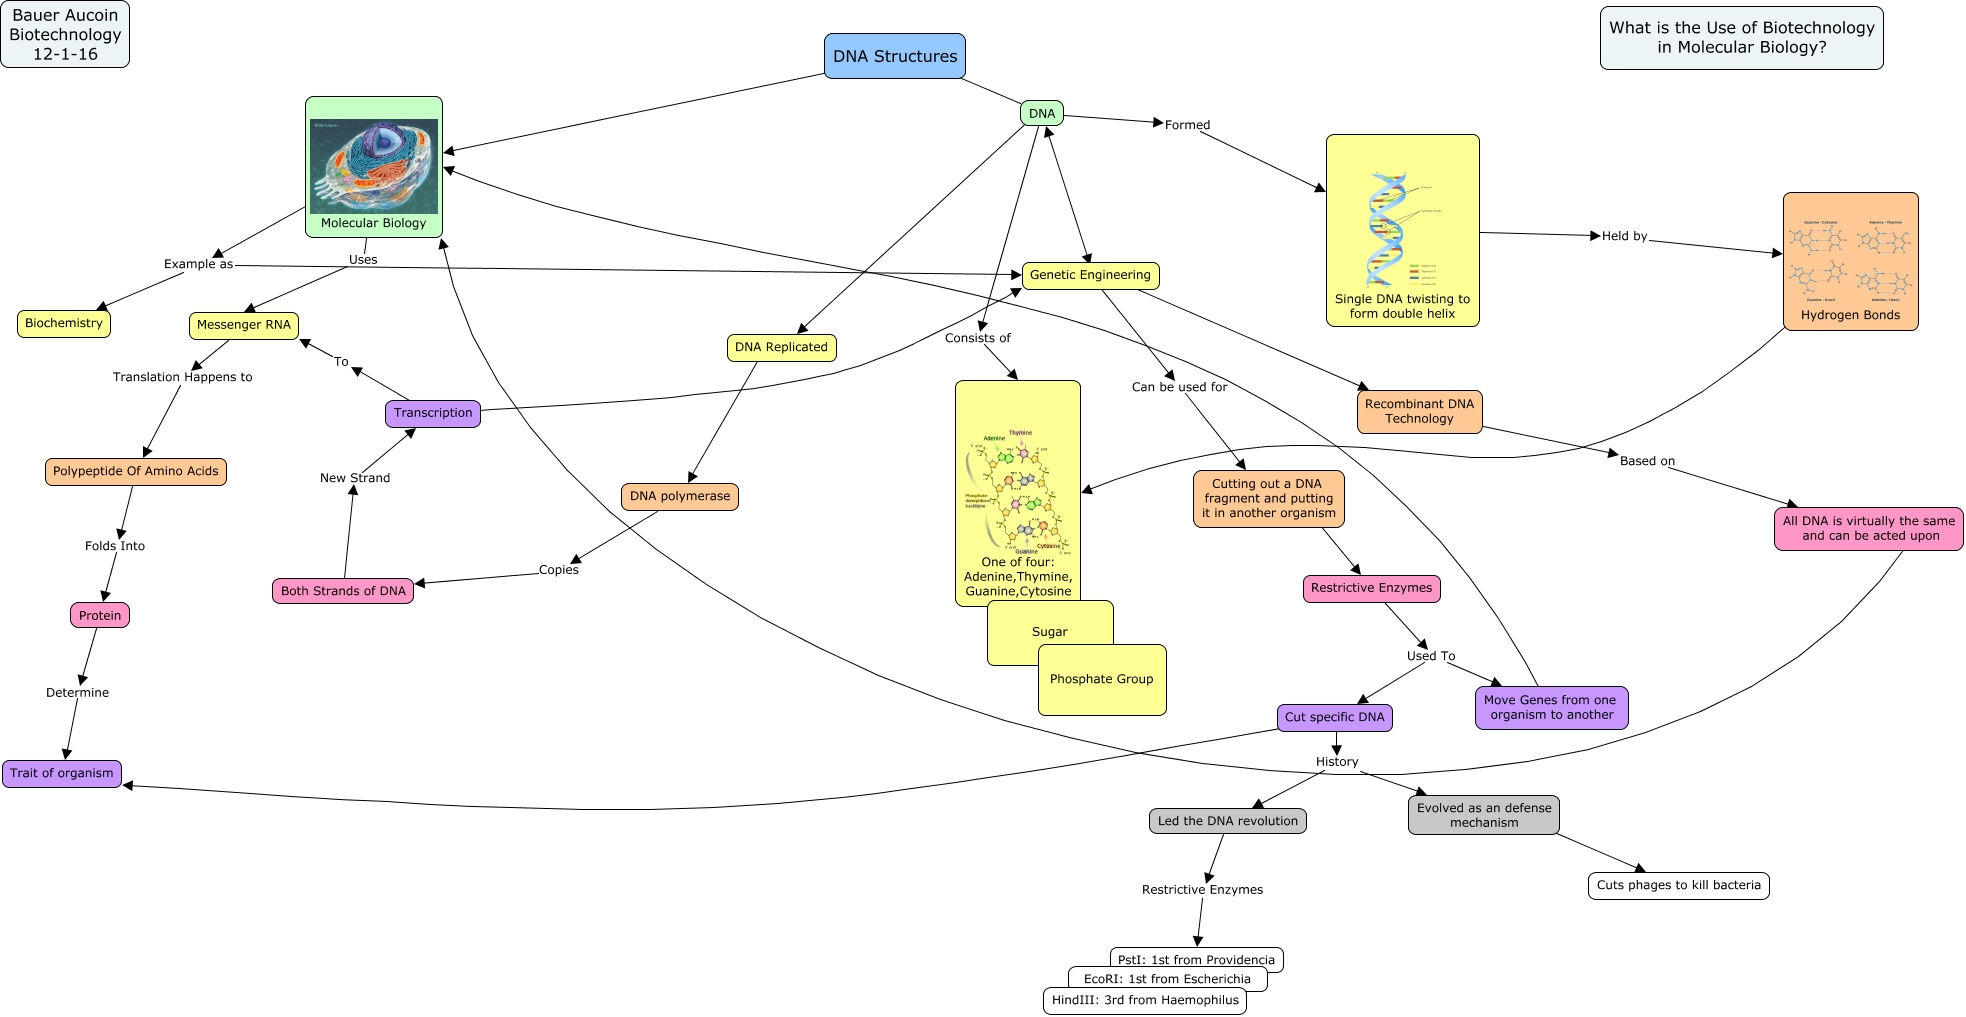
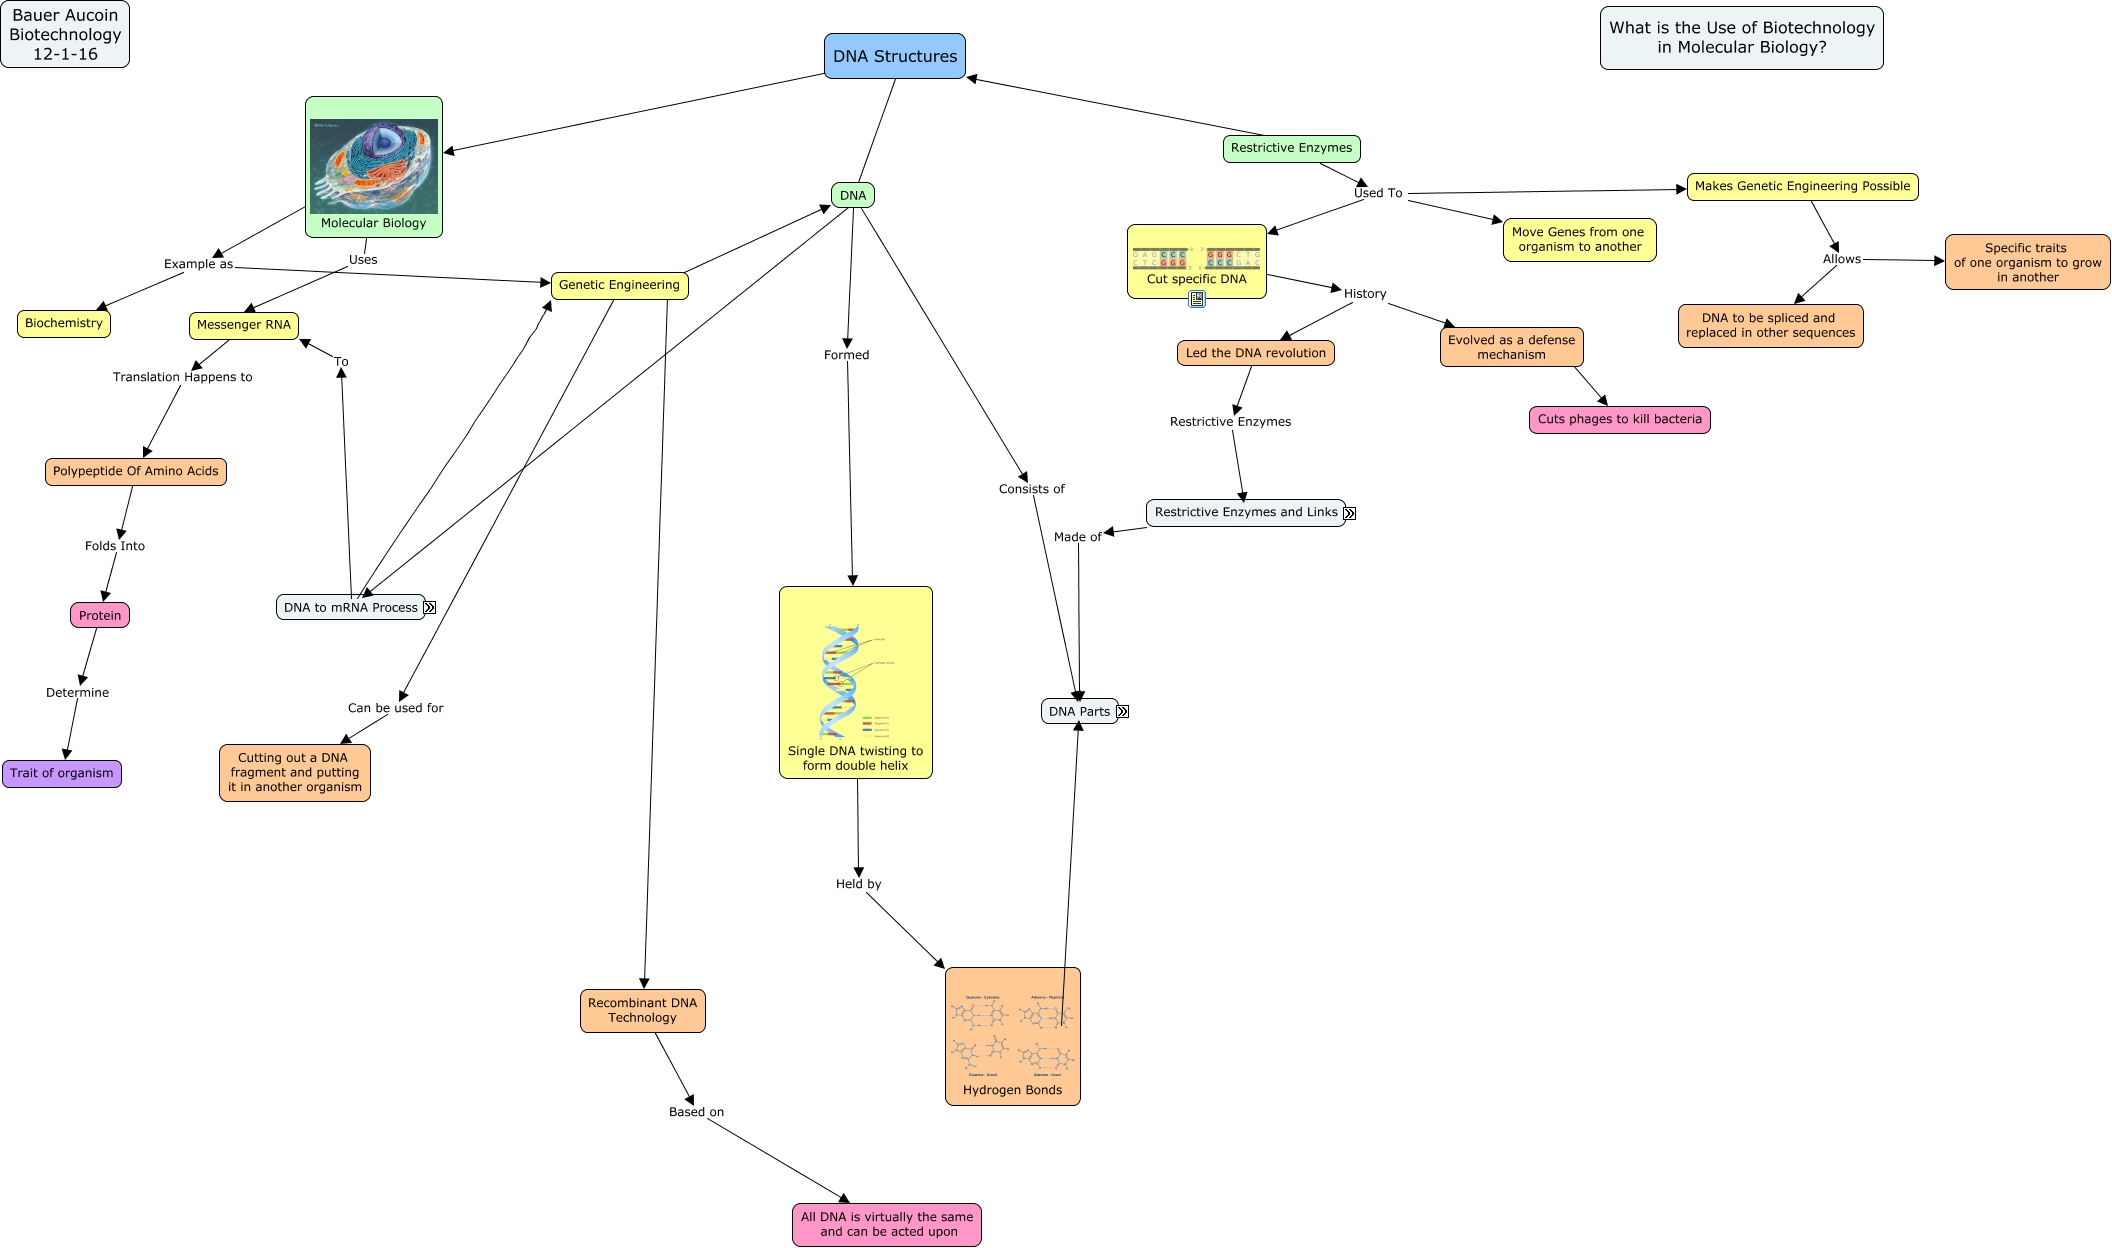
Add files via upload

diff --git a/cMap Ch.4/Ch.4DNAStructuresopen.html b/cMap Ch.4/Ch.4DNAStructuresopen.html
@@ -1,6 +1,6 @@
 <HTML>
 <HEAD>
-  <TITLE>Ch.4DNAStructures.html</TITLE>
+  <TITLE>Ch.4DNAStructuresopen.html</TITLE>
   <meta NAME = "GENERATOR"          CONTENT = "IHMC CmapTools vr. 4.12 ">
   <meta NAME = "KEYWORDS"           CONTENT = "Bauer Aucoin, Concept Map, cmap, CmapTools, IHMC, Ch.4DNAStructures,  Hydrogen Bonds,  Genetic Engineering,  DNA Parts,  What is the Use of Biotechnology in Molecular Biology?,  DNA,  Restrictive Enzymes and Links,  Makes Genetic Engineering Possible,  Cut specific DNA,  DNA to mRNA Process,  EcoRI: 1st from Escherichia,  Trait of organism,  Molecular Biology,  Led the DNA revolution,  Restrictive Enzymes,  Bauer Aucoin Biotechnology 12-1-16,  Cuts phages to kill bacteria,  Messenger RNA,  Transcription,  DNA to be spliced and replaced in other sequences,  DNA Replicated">
   <meta NAME = "DESCRIPTION"        CONTENT = "This Concept Map, created with IHMC CmapTools, has information related to: Ch.4DNAStructures, Restrictive Enzymes Used To Move Genes from one organism to another, DNA polymerase Copies Both Strands of DNA, Genetic Engineering ???? DNA, Makes Genetic Engineering Possible Allows DNA to be spliced and replaced in other sequences, Polypeptide Of Amino Acids Folds Into Protein, Restrictive Enzymes and Links Made of One of four: Adenine,Thymine, Guanine,Cytosine, Both Strands of DNA New Strand Transcription, Restrictive Enzymes Used To Cut specific DNA, DNA Replicated DNA polymerase, Transcription Relates to Genetic Engineering, DNA Structures Molecular Biology, Protein Determine Trait of organism, Cut specific DNA History Evolved as a defense mechanism, Molecular Biology Uses Messenger RNA, Makes Genetic Engineering Possible Allows Specific traits of one organism to grow in another, Single DNA twisting to form double helix Held by Hydrogen Bonds, Hydrogen Bonds ???? One of four: Adenine,Thymine, Guanine,Cytosine, Transcription To Messenger RNA, Genetic Engineering ???? Recombinant DNA Technology, Genetic Engineering Can be used for Cutting out a DNA fragment and putting it in another organism">
@@ -209,7 +209,7 @@ This Concept Map, created with IHMC CmapTools, has information related to: Ch.4D
 
 </noscript>
 
-<map name="Ch.4DNAStructures.html">
+<map name="Ch.4DNAStructuresopen.html">
   <area shape="rect"
         href="1QT8TNQXZI1998P8SI2DMItextIhtml"
         onClick="popUpEvt(event,'1QT8TNQXZI1998P8SI2DMItextIhtml'); return false;"
@@ -217,23 +217,23 @@ This Concept Map, created with IHMC CmapTools, has information related to: Ch.4D
   <area shape="rect"
         href="1QT8V1G6LI1L727CSI2Q3ItextIhtml"
         onClick="popUpEvt(event,'1QT8V1G6LI1L727CSI2Q3ItextIhtml'); return false;"
-        coords="-210,-36,-192,-18">
+        coords="1365,521,1383,539">
   <area shape="rect"
         href="1QT8V6NHHI1RT8Q2VI2SSItextIhtml"
         onClick="popUpEvt(event,'1QT8V6NHHI1RT8Q2VI2SSItextIhtml'); return false;"
-        coords="-210,-36,-192,-18">
+        coords="1341,551,1359,569">
   <area shape="rect"
         href="1QT8V353KIBC5W83I2S1ItextIhtml"
         onClick="popUpEvt(event,'1QT8V353KIBC5W83I2S1ItextIhtml'); return false;"
-        coords="-210,-36,-192,-18">
+        coords="1320,590,1338,608">
 </map>
 
 <center>
   <table width=* height=* cellpadding=0 cellspacing=0 border=0>
     <tr>
       <td valign=center align=center>
-        <img USEMAP="#Ch.4DNAStructures.html"
-             SRC="Ch.4DNAStructures.jpg"
+        <img USEMAP="#Ch.4DNAStructuresopen.html"
+             SRC="Ch.4DNAStructuresopen.jpg"
              ALIGN=middle
              BORDER=0
              onClick=popDown();>
